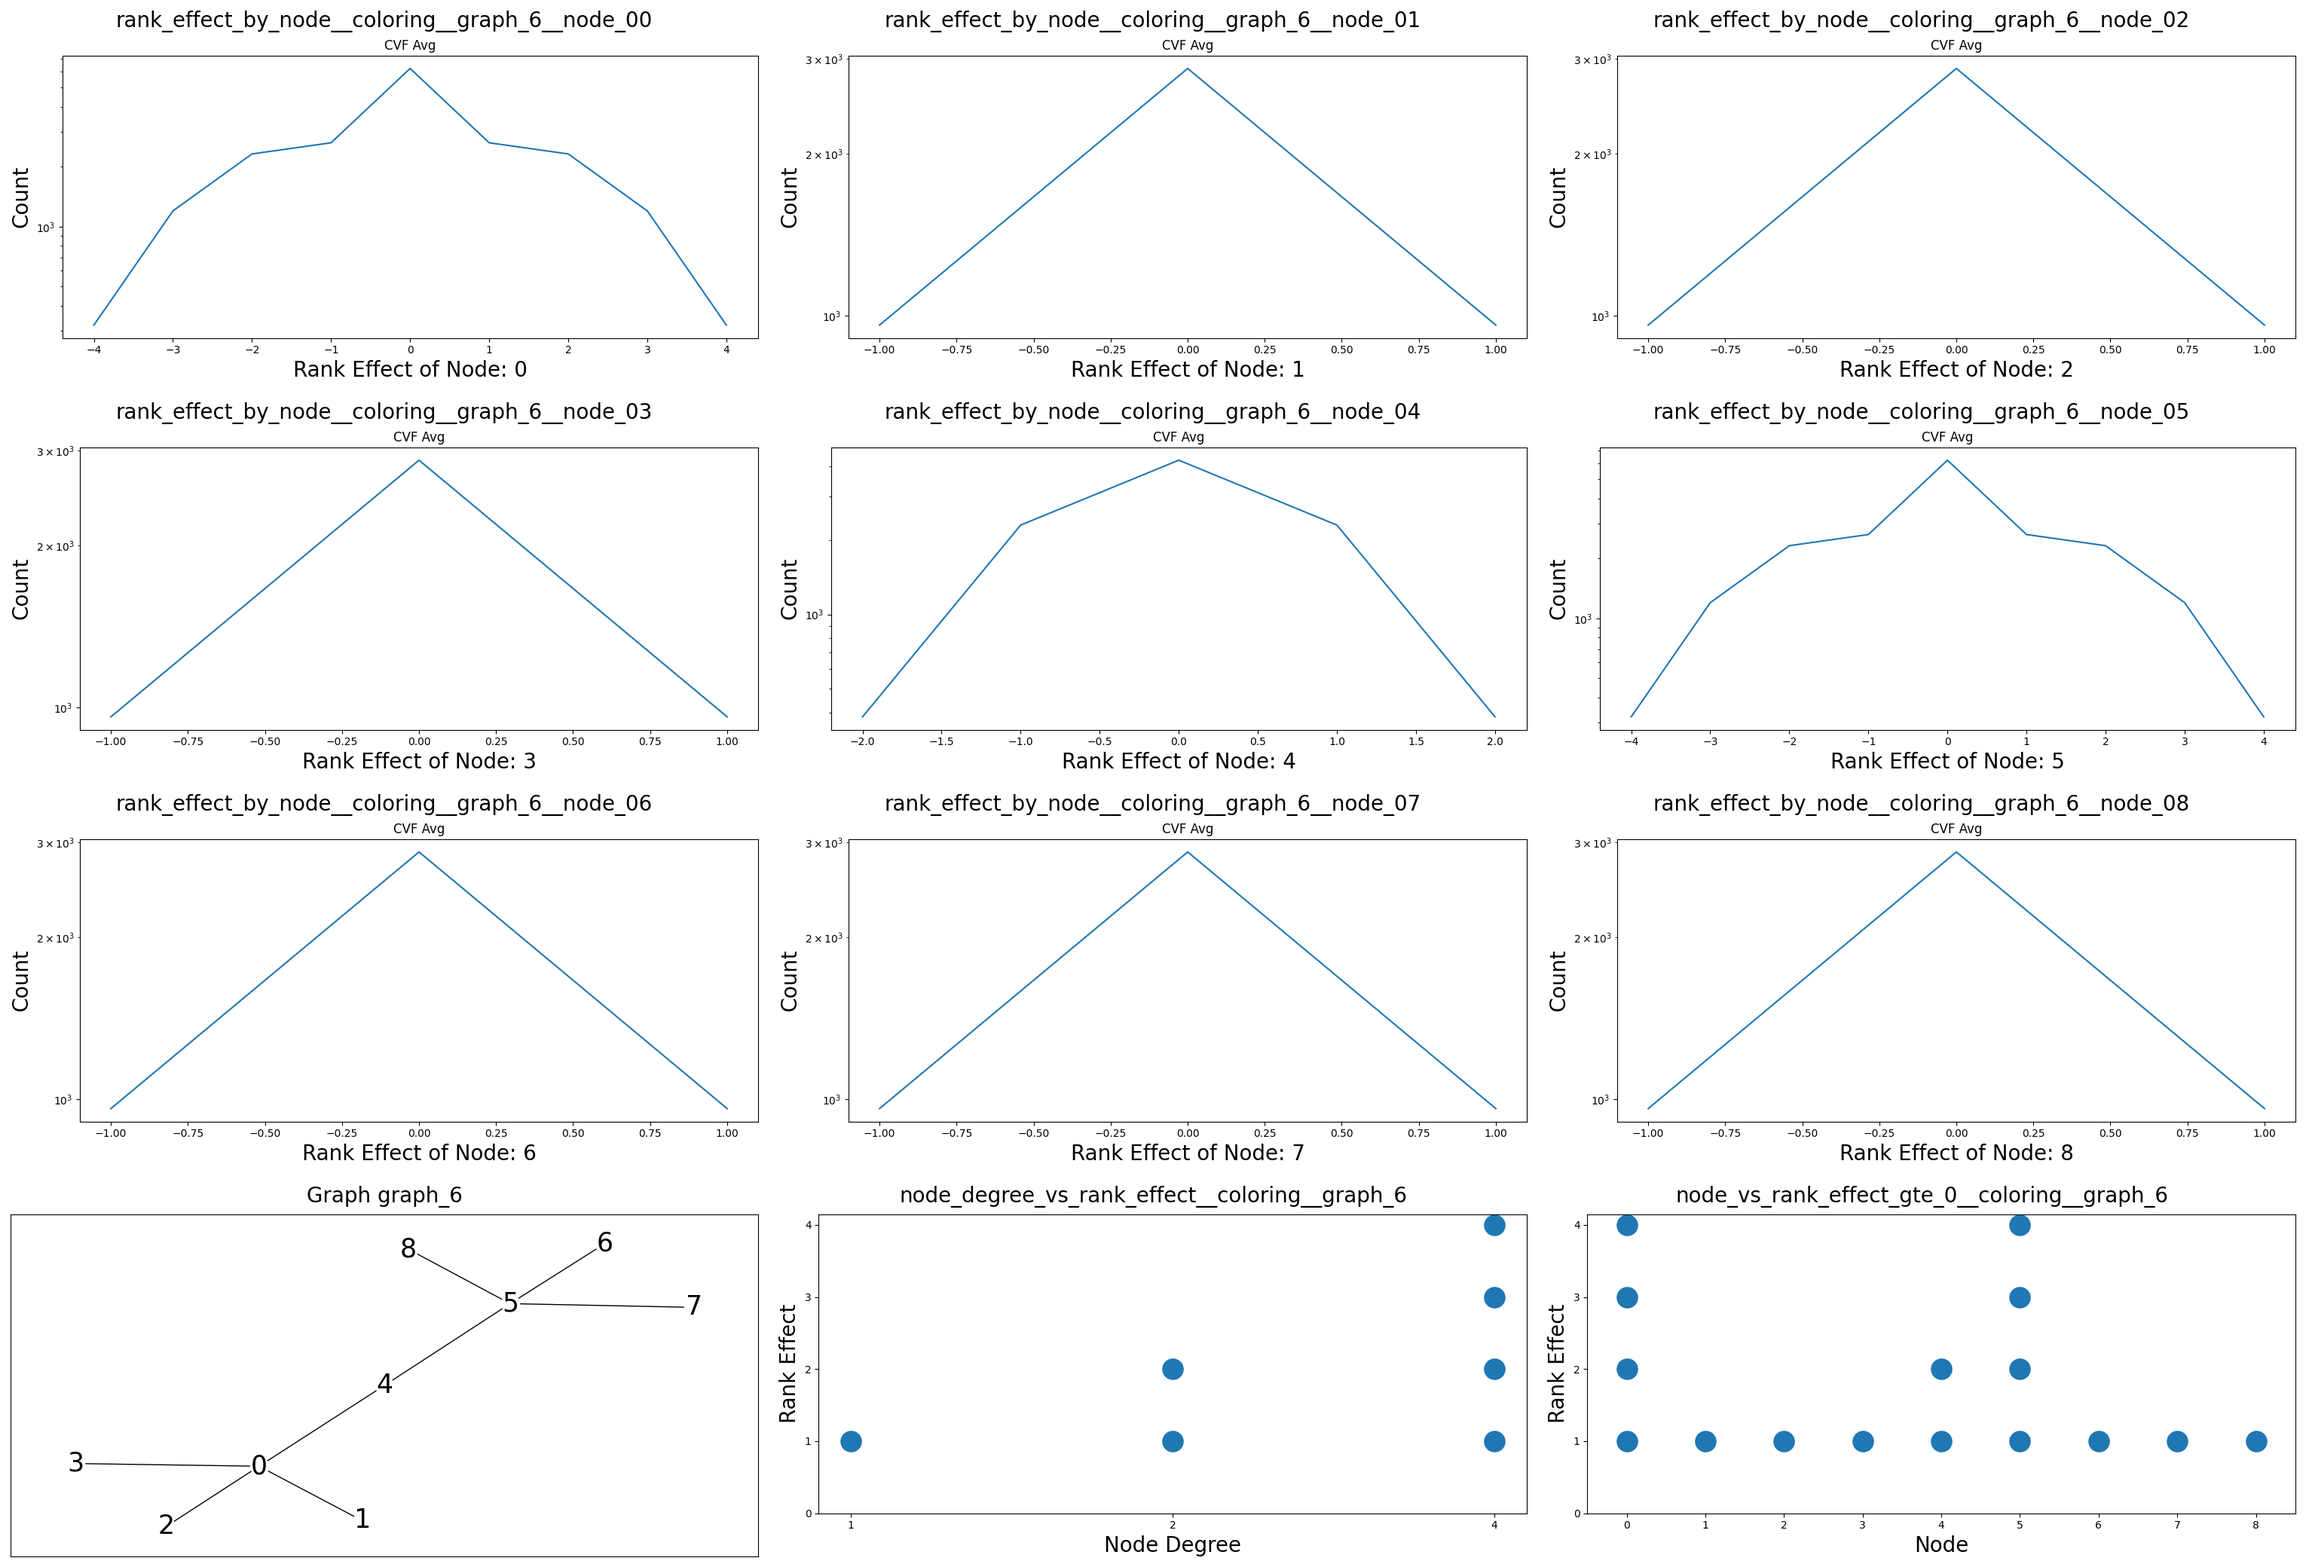
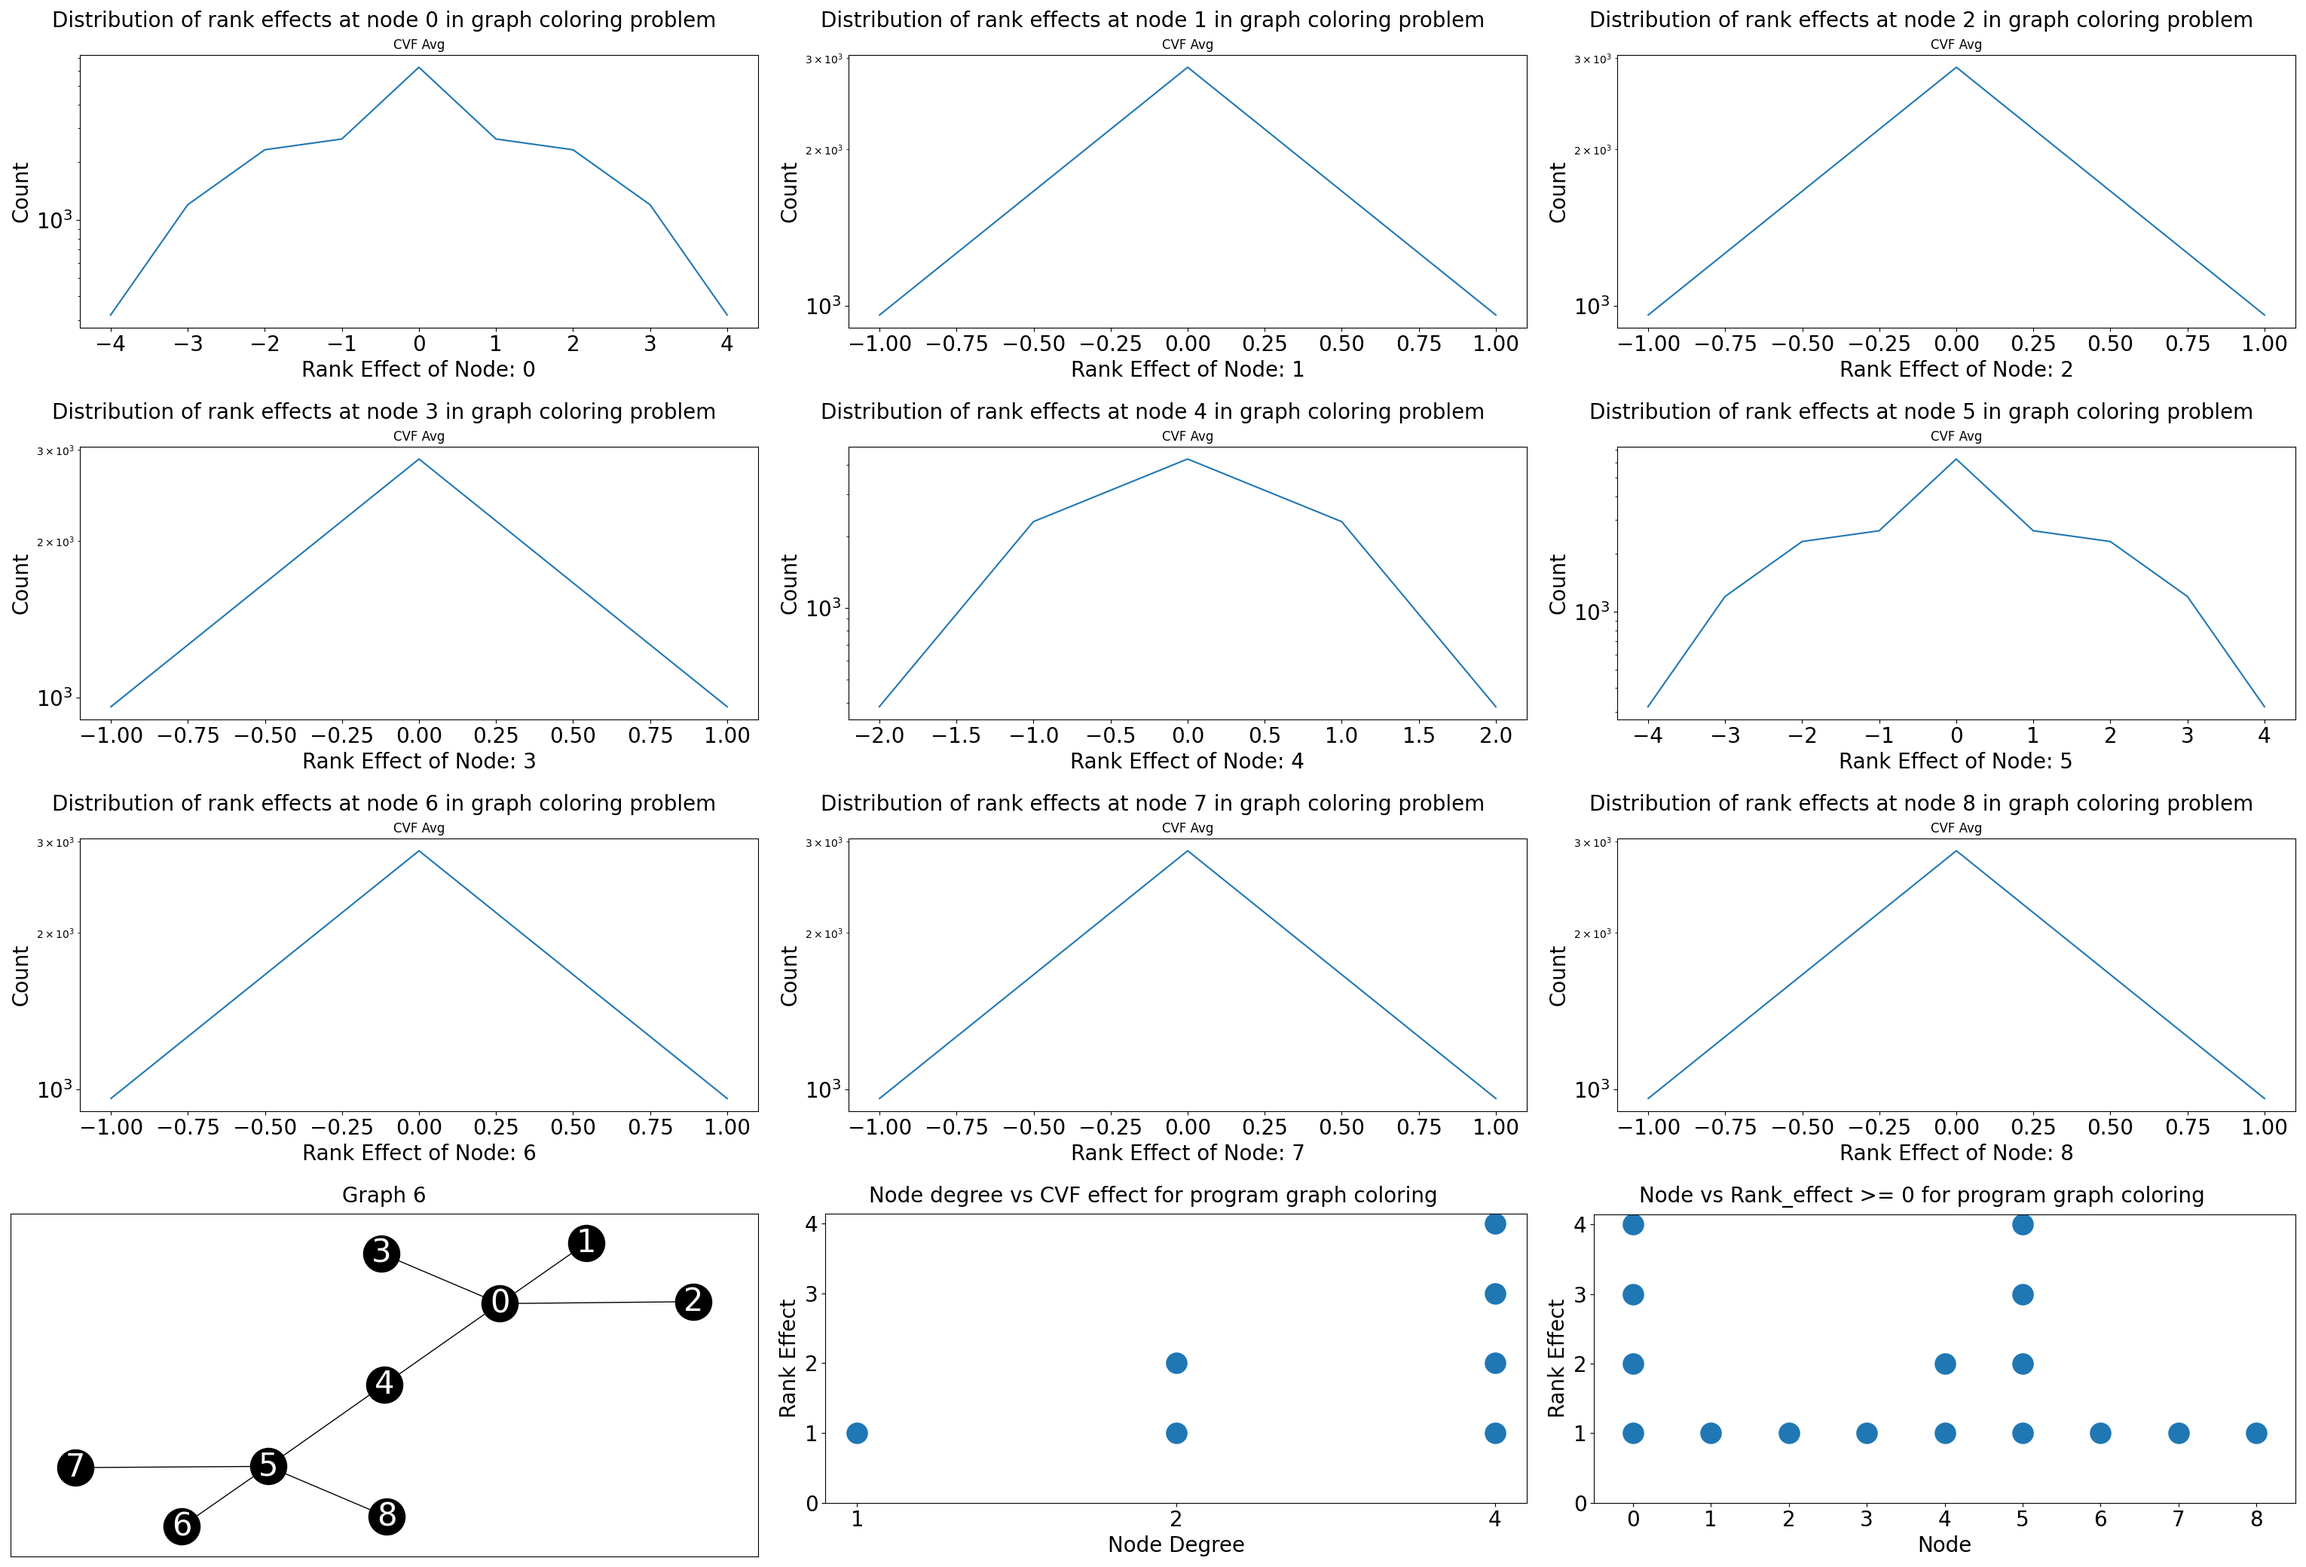
updates

diff --git a/cvf-analysis/analysis/plot_node_vs_accumulated_cvf_effect_w_coff.py b/cvf-analysis/analysis/plot_node_vs_accumulated_cvf_effect_w_coff.py
@@ -31,37 +31,17 @@ def create_plots_dir_if_not_exists():
 
 
 def plot_node_vs_accumulated_cvf_effect(df, ax, y_max):
-    sns.barplot(data=df, x="Node", y="Accumulated Severe CVF Effect (Avg)", ax=ax)
+    sns.barplot(data=df, x="Node", y="Accumulated Severe CVF Effect (Avg)", ax=ax, width=.4)
     ax.set_ylabel("Accumulated Severe CVF Effect")
     ax.set_ylim(bottom=0, top=math.ceil(y_max * 1.1))
     ax.xaxis.label.set_size(fontsize)
     ax.yaxis.label.set_size(fontsize)
+    ax.yaxis.offsetText.set_fontsize(fontsize)
+    ax.tick_params(axis='x', labelsize=20)
+    ax.tick_params(axis='y', labelsize=20)
 
 
 if __name__ == "__main__":
-    # results_dir = os.path.join(os.pardir, "results")
-    # graphs_dir = os.path.join(os.pardir, "graphs")
-    # program = "dijkstra_token_ring"  # coloring, dijkstra_token_ring, maximal_matching, maximal_independent_set
-    # program_label_map = {"dijkstra_token_ring": "dijkstra_tr"}
-    # program_label = program_label_map.get(program, program)
-    # analysis_type = "full"  # full, partial
-    # fontsize = 15
-    # # cut_off = [40, 40, 50, 60]
-    # cut_off = [20, 10, 15, 10, 10]
-    # graph_names = [
-    #     "graph_1",
-    #     "graph_2",
-    #     "graph_3",
-    #     "graph_6",
-    #     "graph_6b",
-    # ]
-    # cut_off = [40, 40, 50, 60]
-    # graph_names = [
-    #     "implicit_graph_n10",
-    #     "implicit_graph_n11",
-    #     "implicit_graph_n12",
-    #     "implicit_graph_n13",
-    # ]
 
     plots_dir = os.path.join("plots", program, "node_vs_accumulated_cvf_effect")
 
@@ -97,7 +77,7 @@ if __name__ == "__main__":
 
             file_name_substr = f"{c_off}" if len(str(c_off)) > 1 else f"0{c_off}"
             file_name = f"node__vs__accumulated_severe_cvf_effect_gte_{file_name_substr}__{analysis_type}__{program}__{graph_name}"
-            fig_title = f"node_vs_accumulated_cvf_gte_{file_name_substr}__{program_label}__{graph_name}"
+            fig_title = f"Node vs Accumulated CVF >= {c_off} for {program_label} program"
             fig.suptitle(fig_title, fontsize=fontsize)
             plot_node_vs_accumulated_cvf_effect(
                 node_vs_accumulated_cvf_effect,

diff --git a/cvf-analysis/analysis/plot_node_vs_cvf_effect_w_coff.py b/cvf-analysis/analysis/plot_node_vs_cvf_effect_w_coff.py
@@ -39,42 +39,14 @@ def plot_node_vs_rank_effect(df, ax, node_id_max, c_off):
     ax.set_xticks([i for i in range(0, node_id_max + 1)])
     ax.xaxis.label.set_size(fontsize)
     ax.yaxis.label.set_size(fontsize)
+    ax.yaxis.offsetText.set_fontsize(fontsize)
+    ax.tick_params(axis="x", labelsize=20)
+    ax.tick_params(axis="y", labelsize=20)
     if program == "coloring" or program == "maximal_matching":
         ax.set_yticks([i for i in range(c_off, rank_effect_max + 1)])
 
 
 if __name__ == "__main__":
-    # results_dir = os.path.join(os.pardir, "results")
-    # graphs_dir = os.path.join(os.pardir, "graphs")
-    # program = "dijkstra_token_ring"  # coloring, dijkstra_token_ring, maximal_matching, maximal_independent_set
-    # program_label_map = {"dijkstra_token_ring": "dijkstra_tr"}
-    # program_label = program_label_map.get(program, program)
-    # analysis_type = "full"  # full, partial
-    # fontsize = 15
-    # cut_off = [0, 0, 0, 0, 0, 0]
-    # graph_names = [
-    #     "graph_1",
-    #     "graph_2",
-    #     "graph_3",
-    #     "graph_6",
-    #     "graph_6b",
-    #     "graph_7",
-    # ]
-    # cut_off = [20, 10, 15, 10, 10]
-    # graph_names = [
-    #     "graph_1",
-    #     "graph_2",
-    #     "graph_3",
-    #     "graph_6",
-    #     "graph_6b",
-    # ]
-    # cut_off = [40, 40, 50, 60]
-    # graph_names = [
-    #     "implicit_graph_n10",
-    #     "implicit_graph_n11",
-    #     "implicit_graph_n12",
-    #     "implicit_graph_n13",
-    # ]
 
     plots_dir = os.path.join("plots", program, "node_vs_cvf_effect")
 
@@ -93,7 +65,7 @@ if __name__ == "__main__":
         df = pd.DataFrame(data, columns=["Node", "Rank Effect"])
         fig, ax = plt.subplots(1, figsize=(10, 5), constrained_layout=True)
         file_name = f"node__vs__rank_effect_gte_{cut_off}__{analysis_type}__{program}__{graph_name}"
-        fig_title = f"node_vs_rank_effect_gte_{cut_off}__{program_label}__{graph_name}"
+        fig_title = f"Node vs Rank_effect >= {cut_off} for program {program_label}"
         fig.suptitle(fig_title, fontsize=fontsize)
         plot_node_vs_rank_effect(df, ax, node_id_max, cut_off)
 

diff --git a/cvf-analysis/analysis/plot_node_vs_max_cvf_effect.py b/cvf-analysis/analysis/plot_node_vs_max_cvf_effect.py
@@ -30,33 +30,17 @@ def create_plots_dir_if_not_exists():
 
 
 def plot_node_vs_max_rank_effect(df, ax, y_max):
-    sns.barplot(data=df, x="Node", y="Rank Effect", ax=ax)
+    sns.barplot(data=df, x="Node", y="Rank Effect", ax=ax, width=0.4)
     ax.set_ylim(bottom=0, top=math.ceil(y_max * 1.1))
     ax.xaxis.label.set_size(fontsize)
     ax.yaxis.label.set_size(fontsize)
+    ax.yaxis.offsetText.set_fontsize(fontsize)
+    ax.tick_params(axis="x", labelsize=20)
+    ax.tick_params(axis="y", labelsize=20)
 
 
 if __name__ == "__main__":
-    # results_dir = os.path.join(os.pardir, "results")
-    # graphs_dir = os.path.join(os.pardir, "graphs")
-    # program = "dijkstra_token_ring"  # coloring, dijkstra_token_ring, maximal_matching, maximal_independent_set
-    # program_label_map = {"dijkstra_token_ring": "dijkstra_tr"}
-    # program_label = program_label_map.get(program, program)
-    # analysis_type = "full"  # full, partial
-    # fontsize = 15
-    # graph_names = [
-    #     "graph_1",
-    #     "graph_2",
-    #     "graph_3",
-    #     "graph_6",
-    #     "graph_6b",
-    # ]
-    # graph_names = [
-    #     "implicit_graph_n10",
-    #     "implicit_graph_n11",
-    #     "implicit_graph_n12",
-    #     "implicit_graph_n13",
-    # ]
+
     plots_dir = os.path.join("plots", program, "node_vs_max_cvf_effect")
 
     create_plots_dir_if_not_exists()
@@ -73,7 +57,7 @@ if __name__ == "__main__":
         )
         fig, ax = plt.subplots(1, figsize=(10, 5), constrained_layout=True)
         file_name = f"node_vs_max_rank_effect__{analysis_type}__{program}__{graph_name}"
-        fig_title = f"node_vs_max_rank_effect__{program_label}__{graph_name}"
+        fig_title = f"Node vs Max CVF effect for program {program_label}"
         fig.suptitle(fig_title, fontsize=fontsize)
         plot_node_vs_max_rank_effect(
             node_vs_max_rank_effect, ax, node_vs_max_rank_effect["Rank Effect"].max()

diff --git a/cvf-analysis/plot_results.py b/cvf-analysis/plot_results.py
@@ -18,7 +18,11 @@ if program not in programs:
     print(f"Program {program} not found.")
     exit(1)
 
-program_label_map = {"dijkstra_token_ring": "dijkstra", "coloring": "graph coloring", "maximal_matching": "maximal matching"}
+program_label_map = {
+    "dijkstra_token_ring": "dijkstra",
+    "coloring": "graph coloring",
+    "maximal_matching": "maximal matching",
+}
 program_label = program_label_map.get(program, program)
 
 analysis_type = "full"  # full, partial
@@ -74,8 +78,8 @@ def plot_node_rank_effect(node, df, ax):
     df = df.loc[df["CVF (Avg)"] > 0]
     sns.lineplot(data=df, x="Rank Effect", y="CVF (Avg)", ax=ax)
     ax.set(xlabel=f"Rank Effect of Node: {node}", ylabel="Count")
-    ax.tick_params(axis='x', labelsize=20)
-    ax.tick_params(axis='y', labelsize=20)
+    ax.tick_params(axis="x", labelsize=20)
+    ax.tick_params(axis="y", labelsize=20)
     ax.xaxis.label.set_size(fontsize)
     ax.yaxis.label.set_size(fontsize)
     ax.set_title("CVF Avg")
@@ -118,7 +122,7 @@ for graph_name in graph_names:
             node_id = f"{node_id}"
         file_name = f"rank_effect_by_node__{analysis_type}__{program}__{graph_name}__node_{node_id}"
         fig_title = (
-            f"Distribution of rank effects at node {node_id} in {program_label} problem"
+            f"Distribution of rank effects at node {index[0]} in {program_label} problem"
         )
         fig.suptitle(fig_title, fontsize=fontsize)
         plot_node_rank_effect(index[0], grp, axs)

diff --git a/cvf-analysis/analysis/plot_node_degree_vs_cvf_effect.py b/cvf-analysis/analysis/plot_node_degree_vs_cvf_effect.py
@@ -50,24 +50,12 @@ def plot_node_degree_vs_rank_effect(df, ax):
     ax.set_yticks([i for i in range(0, rank_effect_max + 1)])
     ax.xaxis.label.set_size(fontsize)
     ax.yaxis.label.set_size(fontsize)
+    ax.tick_params(axis='x', labelsize=20)
+    ax.tick_params(axis='y', labelsize=20)
 
 
 if __name__ == "__main__":
-    # results_dir = os.path.join(os.pardir, "results")
     graphs_dir = os.path.join(os.pardir, "graphs")
-    # program = "coloring"  # coloring, dijkstra_token_ring, maximal_matching, maximal_independent_set
-    # program_label_map = {"dijkstra_token_ring": "dijkstra_tr"}
-    # program_label = program_label_map.get(program, program)
-    # analysis_type = "full"  # full, partial
-    # fontsize = 15
-    # graph_names = [
-    #     "graph_1",
-    #     "graph_2",
-    #     "graph_3",
-    #     "graph_6",
-    #     "graph_6b",
-    #     "graph_7",
-    # ]
 
     plots_dir = os.path.join("plots", program, "node_degree_vs_cvf_effect")
 
@@ -87,7 +75,7 @@ if __name__ == "__main__":
         file_name = (
             f"node_degree_vs_rank_effect__{analysis_type}__{program}__{graph_name}"
         )
-        fig_title = f"node_degree_vs_rank_effect__{program}__{graph_name}"
+        fig_title = f"Node degree vs CVF effect for program {program_label}"
         fig.suptitle(fig_title, fontsize=fontsize)
         plot_node_degree_vs_rank_effect(df, ax)
 

diff --git a/cvf-analysis/analysis/plot_config.py b/cvf-analysis/analysis/plot_config.py
@@ -14,7 +14,11 @@ if program not in programs:
     print(f"Program {program} not found.")
     exit(1)
 
-program_label_map = {"dijkstra_token_ring": "dijkstra_tr"}
+program_label_map = {
+    "dijkstra_token_ring": "dijkstra",
+    "coloring": "graph coloring",
+    "maximal_matching": "maximal matching",
+}
 program_label = program_label_map.get(program, program)
 
 analysis_type = "full"  # full, partial
